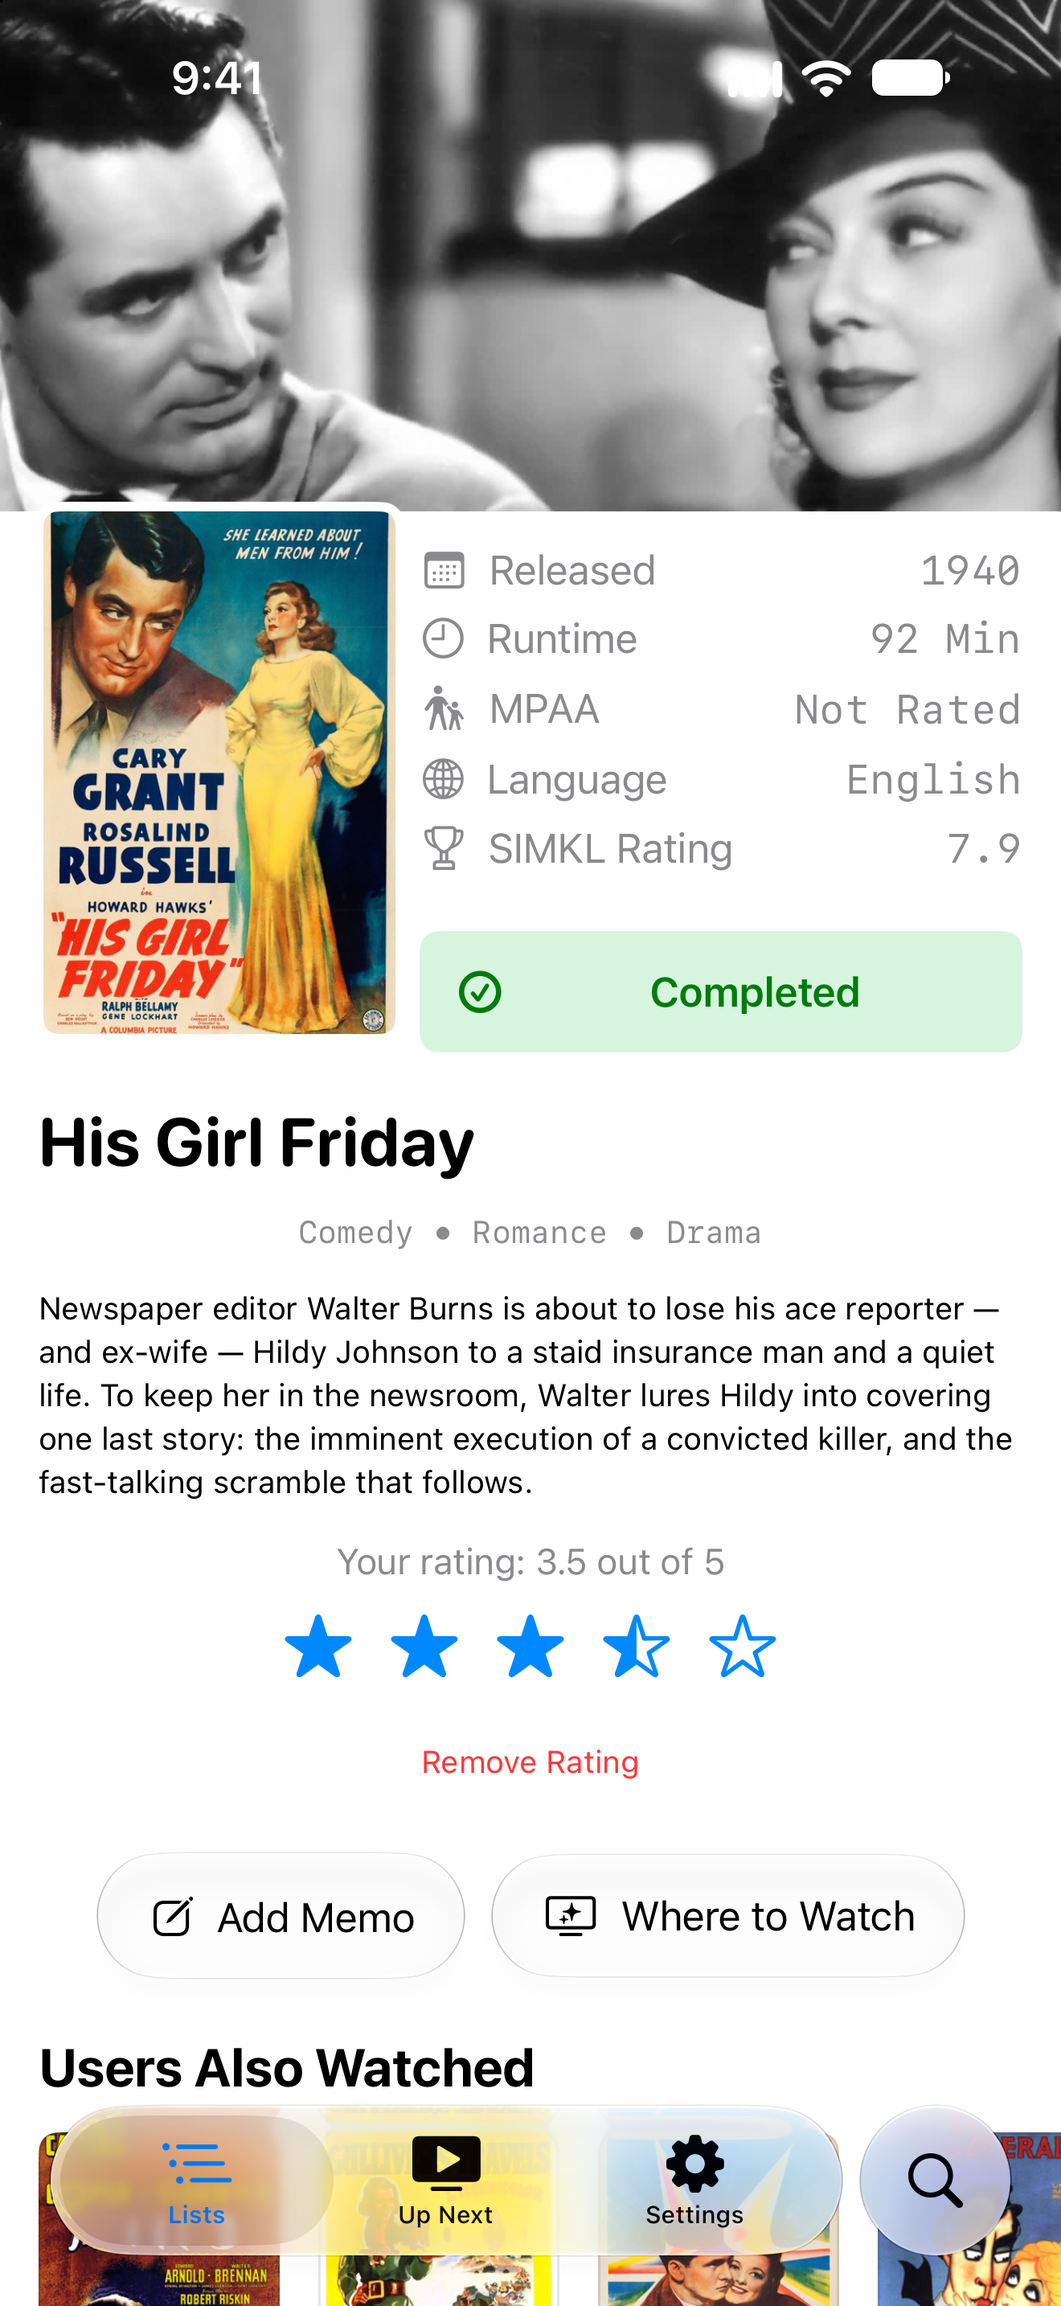
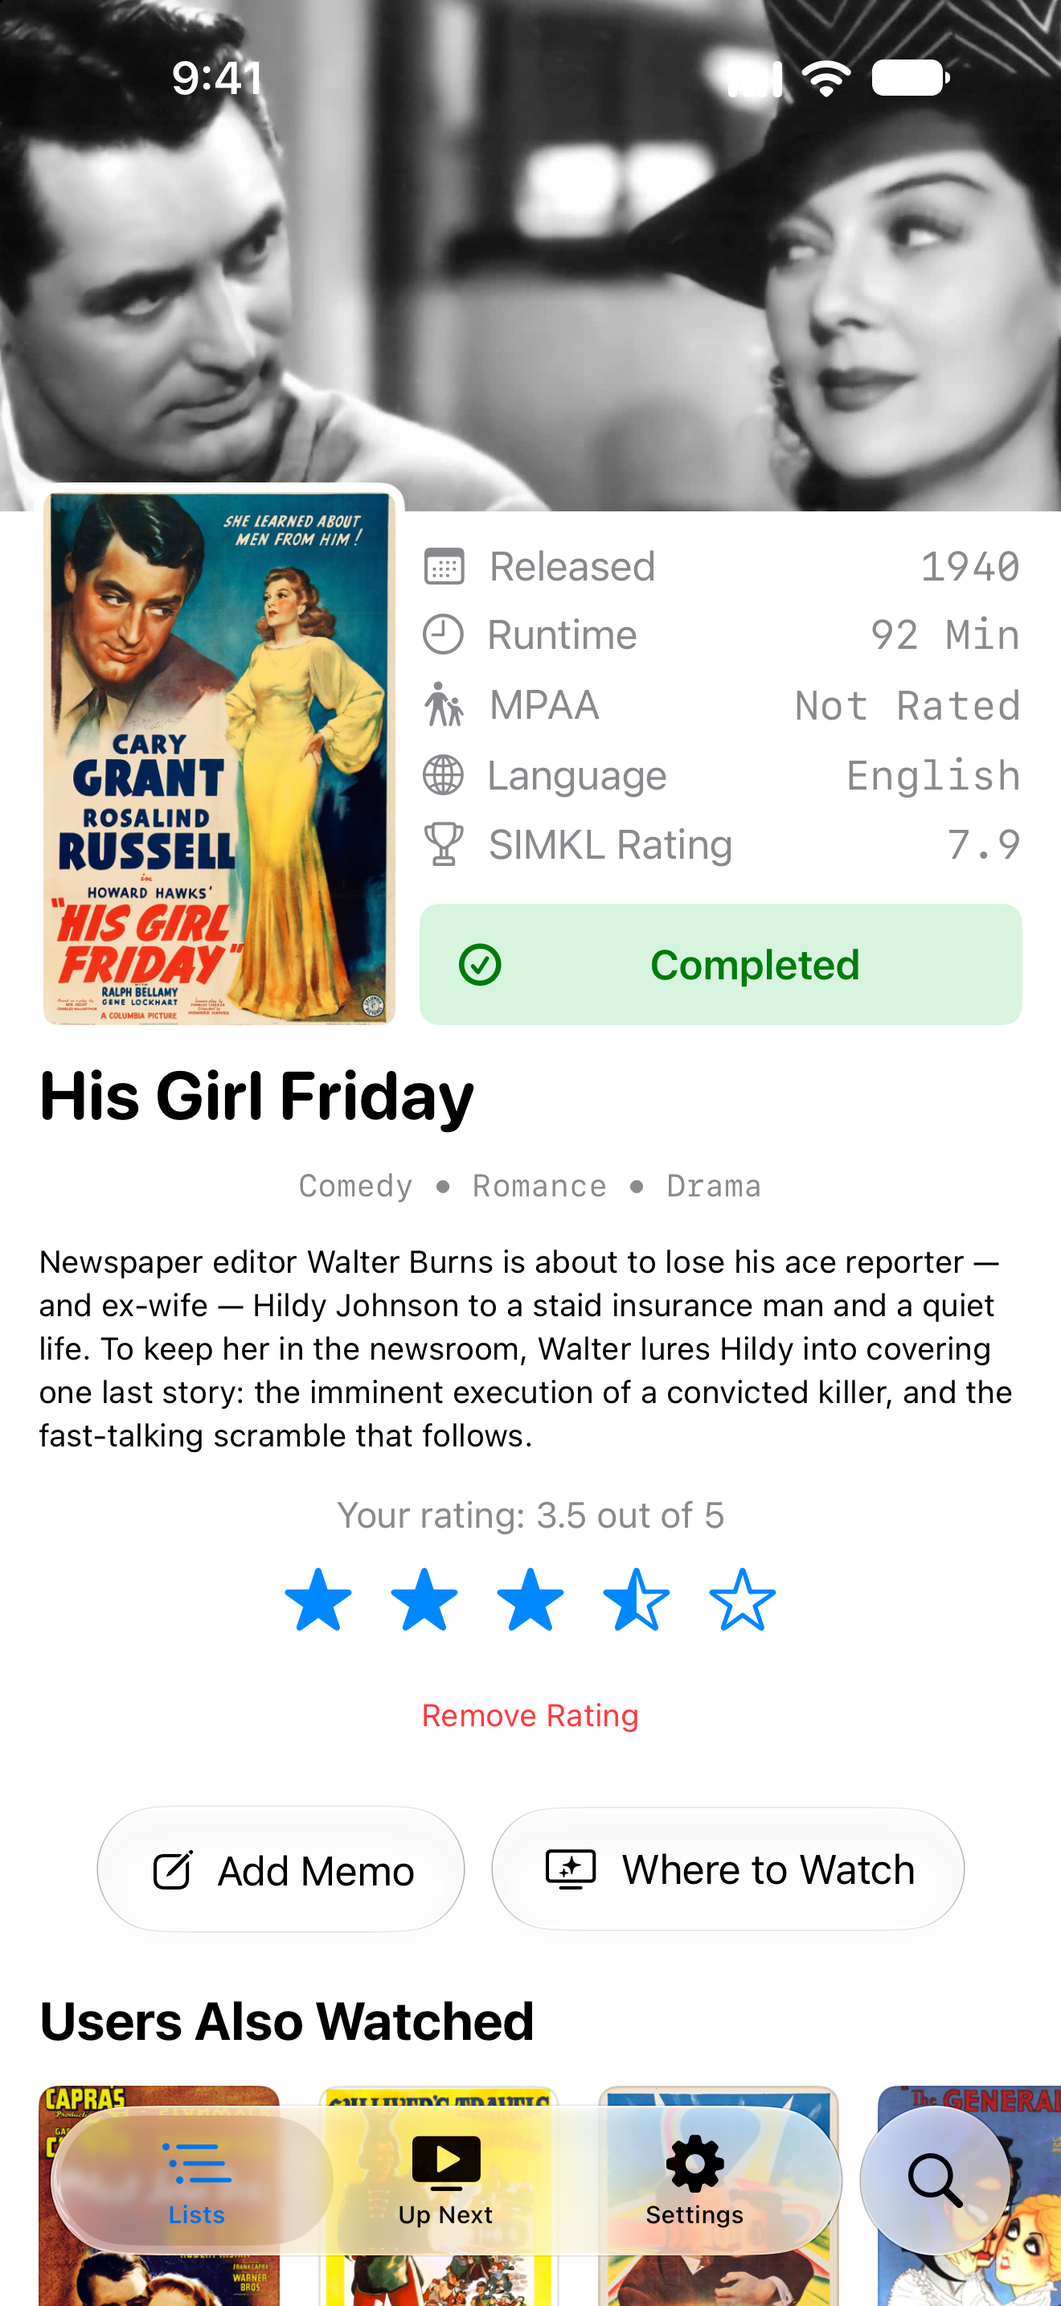
chore: release Simalytics 1.0.18 (142)
Restore the original detail-header layout so Watching, Plan to Watch, and other status buttons align with the poster again. Remove the forced metadata-column height and fixed stack spacing, restore centered alignment, and retain the original movie/TV/anime poster sizes. The separate accessibility layout remains available.

Prepare the replacement 1.0.18 (142) release snapshot with the folded Changeset, cumulative notes, canonical App Store metadata, Apple release history, and updated iPhone/iPad detail screenshots using the existing marketing design.

Validation: Debug and arm64/x86_64 Release simulator builds passed. Visual checks covered full five-row movie/TV/anime metadata, Watching/Plan to Watch/Completed labels, and largest accessibility text. Both App Store screenshot sets passed size validation. Offline fixtures now include the missing rating row and an initial-status override so these cases can be reproduced without API writes. Episode, rating, and watchlist-save logic are unchanged; this layout-only correction did not add or rerun unit tests.

The configured Xcode Cloud workflow produces build 142 after merge. App Store review submission remains a separate action.

diff --git a/simalytics/Components/MediaDetailHeader.swift b/simalytics/Components/MediaDetailHeader.swift
@@ -3,6 +3,7 @@ import SwiftUI
 struct MediaDetailHeader<Info: View, Status: View>: View {
   let poster: String?
   let title: String
+  var posterHeight: CGFloat = 220.59
   @ViewBuilder let info: () -> Info
   @ViewBuilder let status: () -> Status
   @Environment(\.colorScheme) private var colorScheme
@@ -14,12 +15,25 @@ struct MediaDetailHeader<Info: View, Status: View>: View {
       if dynamicTypeSize.isAccessibilitySize {
         VStack(alignment: .leading, spacing: 16) {
           posterView
-          information
+          VStack(alignment: .leading, spacing: 8) {
+            info().labeledContentStyle(AccessibleMediaInfoStyle())
+            status()
+          }
         }
       } else {
-        HStack(alignment: .top, spacing: 8) {
+        // Preserve the original detail layout: natural stack spacing and centered
+        // alignment, without stretching the status column to the poster's height.
+        HStack {
           posterView
-          information
+          Spacer()
+          VStack {
+            Spacer().frame(height: 8)
+            Spacer()
+            info()
+            Spacer()
+            status()
+            Spacer().frame(height: 2)
+          }
         }
       }
     }
@@ -29,22 +43,6 @@ struct MediaDetailHeader<Info: View, Status: View>: View {
     .fullScreenCover(isPresented: $showingPoster) {
       if let poster { FullscreenPosterView(posterPath: poster) }
     }
-  }
-
-  private var information: some View {
-    VStack(spacing: 8) {
-      if !dynamicTypeSize.isAccessibilitySize { Spacer(minLength: 8) }
-      if dynamicTypeSize.isAccessibilitySize {
-        info().labeledContentStyle(AccessibleMediaInfoStyle())
-      } else {
-        info()
-      }
-      if !dynamicTypeSize.isAccessibilitySize { Spacer(minLength: 8) }
-      status()
-      if !dynamicTypeSize.isAccessibilitySize { Spacer().frame(height: 2) }
-    }
-    .frame(maxWidth: .infinity, alignment: .leading)
-    .frame(minHeight: dynamicTypeSize.isAccessibilitySize ? nil : 220.59)
   }
 
   @ViewBuilder private var posterView: some View {
@@ -63,7 +61,7 @@ struct MediaDetailHeader<Info: View, Status: View>: View {
   }
 
   private func posterImage(_ url: String?) -> some View {
-    CustomKFImage(imageUrlString: url, memoryCacheOnly: true, height: 220.59, width: 150)
+    CustomKFImage(imageUrlString: url, memoryCacheOnly: true, height: posterHeight, width: 150)
       .overlay {
         RoundedRectangle(cornerRadius: 8)
           .stroke(colorScheme == .dark ? Color.black : Color.white, lineWidth: 4)

diff --git a/simalytics/Utils/ScreenshotEpisodeFixtures.swift b/simalytics/Utils/ScreenshotEpisodeFixtures.swift
@@ -19,7 +19,8 @@
     static var showDetails: ShowDetailsModel {
       ShowDetailsModel(
         title: "Adventure Serial", poster: "the-general-1926", fanart: nil, year: 1926,
-        first_aired: nil, ratings: nil, year_start_end: "1926", runtime: 24, total_episodes: 36,
+        first_aired: nil, ratings: Ratings(simkl: Rating(rating: 7.9, votes: 100), imdb: nil),
+        year_start_end: "1926", runtime: 24, total_episodes: 36,
         overview: "A public-domain artwork collection with an offline episode catalog.",
         genres: ["Adventure"], users_recommendations: [], ids: nil)
     }
@@ -29,7 +30,8 @@
         title: "Animation Collection", fanart: nil, poster: "namakura-gatana-1917",
         genres: ["Animation"], overview: "An offline collection for browsing long episode lists.",
         first_aired: nil, year_start_end: "1917", users_recommendations: [],
-        total_episodes: 202, ratings: nil, runtime: 12, anime_type: "tv", year: 1917,
+        total_episodes: 202, ratings: Ratings(simkl: Rating(rating: 7.9, votes: 100), imdb: nil),
+        runtime: 12, anime_type: "tv", year: 1917,
         certification: nil, country: nil, ids: nil)
     }
 

diff --git a/simalytics/Utils/ScreenshotMode.swift b/simalytics/Utils/ScreenshotMode.swift
@@ -52,6 +52,15 @@
       ProcessInfo.processInfo.environment["SIMALYTICS_SCREENSHOT_SCREEN"]
     }
 
+    /// Check longer status labels without sending a watchlist mutation.
+    static var watchlistStatus: String? {
+      guard isActive,
+        let status = ProcessInfo.processInfo.environment["SIMALYTICS_SCREENSHOT_WATCHLIST_STATUS"],
+        ["watching", "plantowatch", "completed", "hold", "dropped"].contains(status)
+      else { return nil }
+      return status
+    }
+
     /// Per-capture toggle for the Anime section/shelf. Off (shown) by default;
     /// `capture.sh` sets it for the Explore slide so its trending-anime shelf, whose
     /// only PD art is early B&W, doesn't sit among the color shelves.

diff --git a/simalytics/Utils/ScreenshotDetailFixtures.swift b/simalytics/Utils/ScreenshotDetailFixtures.swift
@@ -62,7 +62,8 @@
     /// row supplies the actual star value via the view's local fetch.
     static func movieWatchlist(_ simkl: Int) -> MovieWatchlistModel? {
       guard simkl == featuredMovieID else { return nil }
-      return MovieWatchlistModel(list: "completed", last_watched_at: nil, simkl: simkl)
+      return MovieWatchlistModel(
+        list: ScreenshotMode.watchlistStatus ?? "completed", last_watched_at: nil, simkl: simkl)
     }
 
     /// A "Users Also Watched" shelf of vivid public-domain posters. Each id matches

diff --git a/simalytics/ViewModels/AnimeDetailViewModel.swift b/simalytics/ViewModels/AnimeDetailViewModel.swift
@@ -113,7 +113,7 @@ extension AnimeDetailView {
       if ScreenshotMode.isActive {
         guard simklID == ScreenshotEpisodeFixtures.animeID else { return nil }
         return AnimeWatchlistModel(
-          list: "watching", last_watched_at: nil, simkl: simklID,
+          list: ScreenshotMode.watchlistStatus ?? "watching", last_watched_at: nil, simkl: simklID,
           episodes_watched: 80, episodes_aired: nil,
           seasons: ScreenshotEpisodeFixtures.watchedSeason(1, numbers: Array(1100...1179)))
       }

diff --git a/simalytics/ViewModels/ShowDetailViewModel.swift b/simalytics/ViewModels/ShowDetailViewModel.swift
@@ -55,7 +55,7 @@ extension ShowDetailView {
       if ScreenshotMode.isActive {
         guard simklID == ScreenshotEpisodeFixtures.showID else { return nil }
         return ShowWatchlistModel(
-          list: "watching", last_watched_at: nil, simkl: simklID,
+          list: ScreenshotMode.watchlistStatus ?? "watching", last_watched_at: nil, simkl: simklID,
           episodes_watched: 2, episodes_aired: nil,
           seasons: ScreenshotEpisodeFixtures.watchedSeason(
             28, numbers: [1, 2]))

diff --git a/simalytics/Views/Explore/MovieDetailView.swift b/simalytics/Views/Explore/MovieDetailView.swift
@@ -65,7 +65,9 @@ struct MovieDetailView: View {
       ScrollView {
         ParallaxBackgroundImage(fanart: movieDetails?.fanart)
 
-        MediaDetailHeader(poster: movieDetails?.poster, title: movieDetails?.title ?? "movie") {
+        MediaDetailHeader(
+          poster: movieDetails?.poster, title: movieDetails?.title ?? "movie", posterHeight: 225
+        ) {
           if let year = movieDetails?.year {
             LabeledContent {
               Text(String(year))

diff --git a/docs/apple-release-history.md b/docs/apple-release-history.md
@@ -1,6 +1,6 @@
 # Apple Release History
 
-Generated from App Store Connect and git on 2026-10-14T02:21:23.728Z.
+Generated from App Store Connect and git on 2026-10-14T02:44:26.770Z.
 
 ASC is the source of truth for Apple versions and builds. Release tags and Xcode Cloud source commits are authoritative for git correlation; Xcode project snapshots are used only as a historical fallback.
 
@@ -25,7 +25,7 @@ The Created column is the App Store version-record creation date. Apple does not
 | 1.0.12 | READY_FOR_SALE | 2026-07-03 | 122 | e033dbb (2026-07-03; tag) | • Restored the parallax banner and refined spacing on title detail pages • Re-centered the detail action controls and tidied poster and info layout • Made the Where to Watch section more reliable • Hardened Simkl requests and media views for smoother, more consistent loading |
 | 1.0.14 | READY_FOR_SALE | 2026-07-09 | 129 | b701890 (2026-07-13; tag) | • Updated app dependencies and kept OAuth callback URL details out of diagnostics. |
 | 1.0.15 | READY_FOR_SALE | 2026-07-14 | 134 | 5d1dc79 (2026-07-18; tag) | • Improved watch-history sync resilience, including titles that are not yet in your Simkl watchlist. • Prevented duplicate episode updates and made cancelled background refreshes stop promptly. • Reduced stalls while browsing image-heavy and preview-rich screens. |
-| 1.0.18 | PREPARE_FOR_SUBMISSION | 2026-10-13 | 140 | b2def3d (2026-10-13; tag) | • Choose your default launch tab in Settings: Up Next, Lists, Explore, or Settings. • Up Next now follows Simkl's watchlist data, keeping stale or unaired next episodes out of your queue. Mark watched with a full left swipe in supported layouts. • Browse TV seasons and anime episode ranges with watched progress and a shortcut to the next unwatched episode. Resume from your latest watched season instead of returning to earlier seasons you skipped. • Enjoy steadier episode lists with consistent spacing for long titles, descriptions, and loading images. Open full descriptions in a scrollable sheet, with improved support for larger text. • Use native search, compact tabs while scrolling, and Liquid Glass detail controls on recent iOS versions. Episode lists support native full-swipe watch actions on iOS 27. • Select half-star ratings, remove ratings, and get clearer feedback when ratings or watched updates fail. Anime episode and title removals sync more reliably. • Pan and zoom fullscreen posters, retry failed image loads, and receive confirmation when a poster finishes saving to Photos. • Get clearer search loading and error states, better poster grids on smaller iPhones, and a clearer Reset & Sign Out action. • Improved library loading, browsing performance, and recovery from connection or local storage errors. Refreshed the App Store screenshots to match the current interface. |
+| 1.0.18 | PREPARE_FOR_SUBMISSION | 2026-10-13 | 141 | 89f3d25 (2026-10-13; tag) | • Choose your default launch tab in Settings: Up Next, Lists, Explore, or Settings. • Up Next now follows Simkl's watchlist data, keeping stale or unaired next episodes out of your queue. Mark watched with a full left swipe in supported layouts. • Browse TV seasons and anime episode ranges with watched progress and a shortcut to the next unwatched episode. Resume from your latest watched season instead of returning to earlier seasons you skipped. • Enjoy compact, steady episode rows, a cleaner scrolling header, and restored spacing for title details and watch status. Open full descriptions in a scrollable sheet, with improved support for larger text. • Use native search, compact tabs while scrolling, and Liquid Glass detail controls on recent iOS versions. Episode lists support native full-swipe watch actions on iOS 27. • Keep ten-star ratings on one line, select half-star ratings in five-star mode, remove ratings, and get clearer feedback when ratings or watched updates fail. Anime episode and title removals sync more reliably. • Pan and zoom fullscreen posters, retry failed image loads, and receive confirmation when a poster finishes saving to Photos. • Get clearer search loading and error states, better poster grids on smaller iPhones, and a clearer Reset & Sign Out action. • Improved library loading, browsing performance, and recovery from connection or local storage errors. Refreshed the App Store screenshots to match the current interface. |
 
 ## TestFlight-Only Versions
 
@@ -152,6 +152,7 @@ These versions have processed builds but no App Store version record.
 | 1.0.16 | 137 | 2026-10-11 | VALID | false | 6a1d25b (2026-10-11; cloud) |
 | 1.0.17 | 139 | 2026-10-11 | VALID | false | fcc6e97 (2026-10-11; cloud) |
 | 1.0.18 | 140 | 2026-10-13 | VALID | false | b2def3d (2026-10-13; tag) |
+| 1.0.18 | 141 | 2026-10-13 | VALID | false | 89f3d25 (2026-10-13; tag) |
 
 ## Release Commits
 
@@ -198,9 +199,9 @@ Matched 5d1dc79 from 2026-07-18: fix: finalize Simalytics 1.0.15 release [releas
 - fix: harden sync and interaction stability (#34)
 - fix: finalize Simalytics 1.0.15 release
 
-### 1.0.18 (140)
+### 1.0.18 (141)
 
-Matched b2def3d from 2026-10-13: chore: release Simalytics 1.0.18 [release tag simalytics-ios@1.0.18+140]
+Matched 89f3d25 from 2026-10-13: chore: release Simalytics 1.0.18 (141) [release tag simalytics-ios@1.0.18+141]
 
 - feat: iOS 27 UI updates — poster zoom, grid swipe, Liquid Glass
 - chore: update dependencies (#44)
@@ -214,4 +215,5 @@ Matched b2def3d from 2026-10-13: chore: release Simalytics 1.0.18 [release tag s
 - Merge pull request #46 from Kyter-com/NickReisenauer/up-next-feedback
 - chore: release Simalytics 1.0.17
 - chore: release Simalytics 1.0.18
+- chore: release Simalytics 1.0.18 (141)
 

diff --git a/docs/unreleased-review.md b/docs/unreleased-review.md
@@ -224,3 +224,28 @@ The other eight screenshots are unchanged. The user-facing Changeset was folded
 into the existing 1.0.18 changelog and cumulative release notes because 1.0.18 is
 still unreleased; the marketing version remains 1.0.18 and ASC selected build 141
 for the replacement Xcode Cloud build. No App Store review submission is implied.
+
+
+## Original header alignment restored: 1.0.18 (142)
+
+Build 141 still forced the metadata/status column to be at least as tall as the
+poster, with fixed stack spacing and top alignment. This differed from the
+original detail headers and misplaced status buttons on fully populated titles.
+The shared header now uses the original centered horizontal stack and natural
+vertical spacing, with no forced metadata-column height. Movie posters also
+retain their original 225-point height; TV/anime posters remain 220.59 points.
+The separate accessibility layout is preserved.
+
+The offline TV/anime fixtures now include a SIMKL rating so validation covers all
+five metadata rows. A DEBUG-only initial-status override permits checking long
+labels such as Plan to Watch without sending a network mutation. This correction
+changes layout only; the episode browser, rating selection, and watchlist-save
+logic are unchanged.
+
+Validation: Debug and arm64/x86_64 Release simulator builds passed. Visually
+checked Watching, Plan to Watch, and Completed with fully populated TV, anime,
+and movie metadata, and retained the large-text layout. The iPhone and iPad
+marketing detail captures were regenerated with the original composition and
+verified at their required export dimensions. No watchlist API writes were made.
+The follow-up Changeset is included in the still-unreleased 1.0.18 entry; ASC
+selected replacement build 142.

diff --git a/docs/next-release-notes.md b/docs/next-release-notes.md
@@ -1,7 +1,7 @@
 • Choose your default launch tab in Settings: Up Next, Lists, Explore, or Settings.
 • Up Next now follows Simkl's watchlist data, keeping stale or unaired next episodes out of your queue. Mark watched with a full left swipe in supported layouts.
 • Browse TV seasons and anime episode ranges with watched progress and a shortcut to the next unwatched episode. Resume from your latest watched season instead of returning to earlier seasons you skipped.
-• Enjoy compact, steady episode rows, a cleaner scrolling header, and restored spacing for title details and watch status. Open full descriptions in a scrollable sheet, with improved support for larger text.
+• Enjoy compact, steady episode rows, a cleaner scrolling header, and the original alignment for posters, title details, and watch status. Open full descriptions in a scrollable sheet, with improved support for larger text.
 • Use native search, compact tabs while scrolling, and Liquid Glass detail controls on recent iOS versions. Episode lists support native full-swipe watch actions on iOS 27.
 • Keep ten-star ratings on one line, select half-star ratings in five-star mode, remove ratings, and get clearer feedback when ratings or watched updates fail. Anime episode and title removals sync more reliably.
 • Pan and zoom fullscreen posters, retry failed image loads, and receive confirmation when a poster finishes saving to Photos.

diff --git a/marketing/app-store-screenshots/README.md b/marketing/app-store-screenshots/README.md
@@ -70,6 +70,7 @@ compiled out of Release) is switched on by launch env vars that `capture.sh` set
 | `SIMALYTICS_SCREENSHOT_HIDE_ANIME=1` | hide the Anime section/shelf for this capture; `capture.sh` sets it only for the Explore slide (early-B&W anime art clashes with the color shelves), so Lists still shows anime |
 | `SIMALYTICS_SCREENSHOT_POSTER_DIR=<dir>` | local dir of public-domain poster JPEGs; `PosterURLProtocol` serves these for `/posters/`, `/fanart/`, and `/episodes/` requests so nothing is fetched from Simkl |
 | `SIMALYTICS_EPISODE_TEST_FAILURE=1` | in screenshot mode only, fail synthetic episode writes to check visible errors and rollback; otherwise these writes update the in-memory browser |
+| `SIMALYTICS_SCREENSHOT_WATCHLIST_STATUS=plantowatch` | set the fixture's initial status to `watching`, `plantowatch`, `completed`, `hold`, or `dropped` to check label alignment without a network mutation |
 
 Detail views are network-driven (they render from a live `getMovieDetails` fetch, not
 the seeded store), so a rich offline detail capture needs an injected fixture:

diff --git a/CHANGELOG.md b/CHANGELOG.md
@@ -4,7 +4,7 @@
 
 ### Patch Changes
 
-- Tighten episode rows and let their header scroll away under the native back button. Restore compact year/runtime/watchlist spacing and keep ten-star ratings on one line while preserving the optional five-star scale. Larger accessibility text gives detail labels and values their own lines.
+- Tighten episode rows and let their header scroll away under the native back button. Restore the original poster and watchlist-status alignment using natural stack spacing and keep ten-star ratings on one line while preserving the optional five-star scale. Larger accessibility text gives detail labels and values their own lines.
 
 - Choose your default launch tab in Settings with a native selection screen and Liquid Glass styling. The tab bar now makes more room while scrolling on iOS 26 and later, and detail transitions respect Reduce Motion.
 
